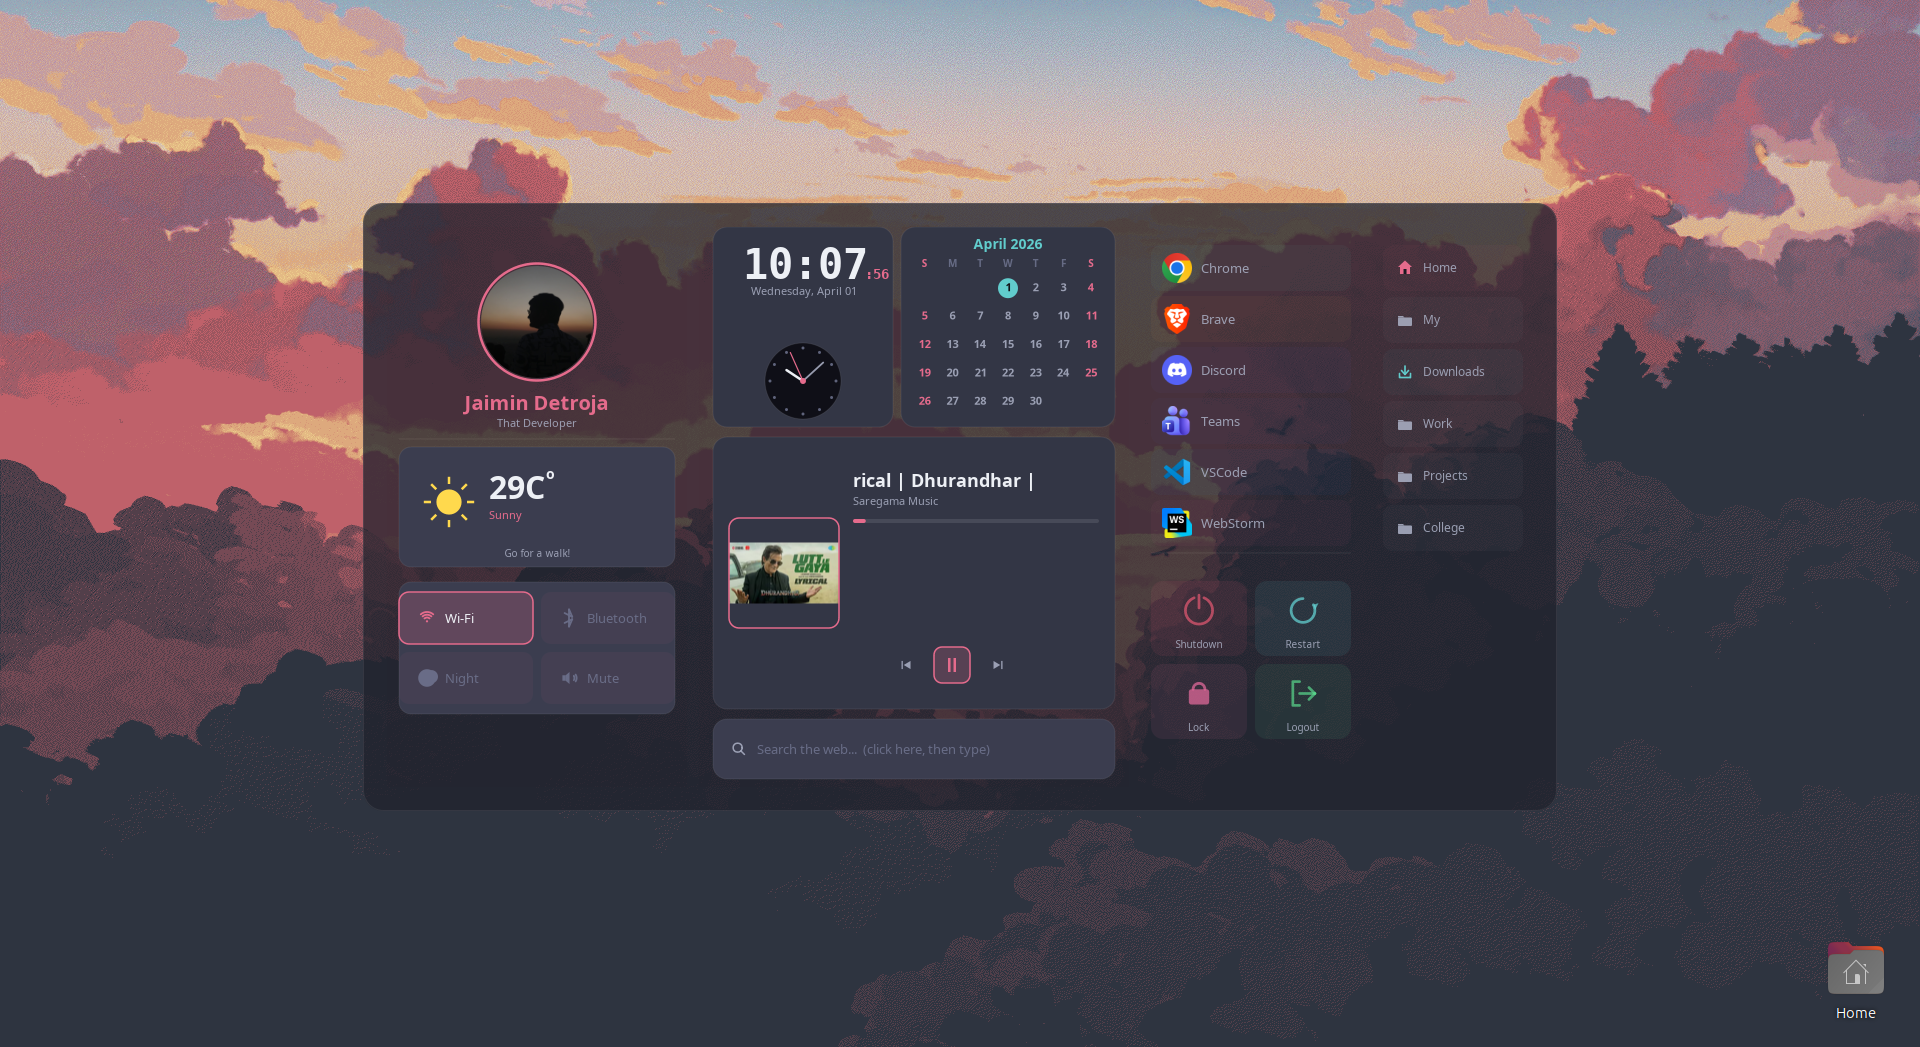
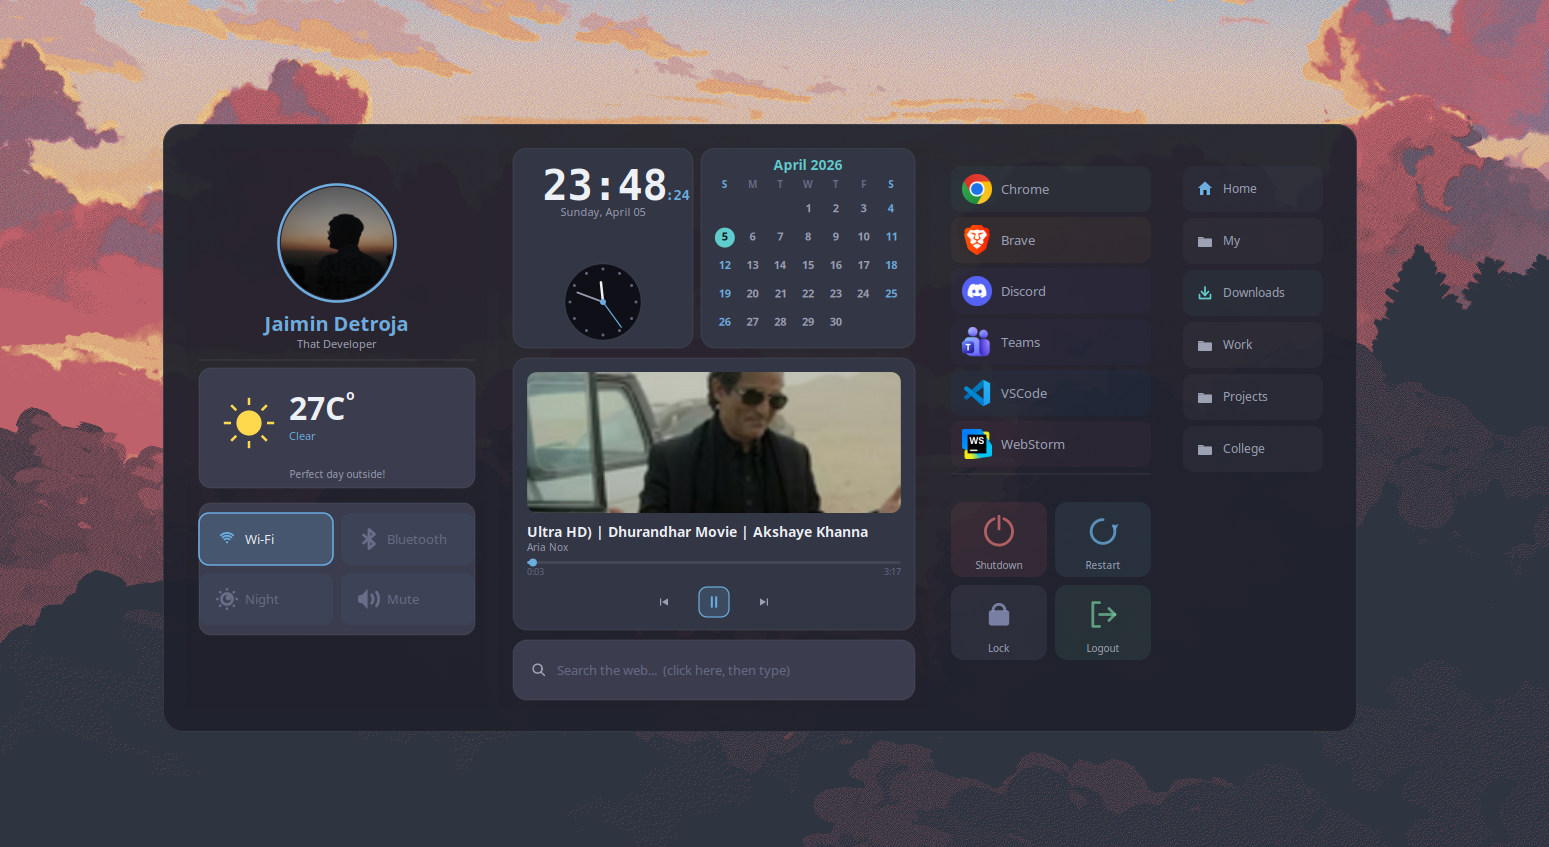
Enhance CenterPanel with playback position and length tracking; update progress calculation and UI elements

diff --git a/widgets/center_panel.py b/widgets/center_panel.py
@@ -38,6 +38,8 @@ class CenterPanel(Gtk.DrawingArea):
         self._art_url = ""
         self._art_surf = None   # cached thumbnail surface
         self._progress = 0.0
+        self._position = 0      # microseconds
+        self._length = 0        # microseconds
         self._marquee = 0
         self._search = ""
         self._sfocus = False
@@ -50,7 +52,7 @@ class CenterPanel(Gtk.DrawingArea):
         self.connect("key-press-event", self._on_key)
         GLib.timeout_add(1000, self._clock_tick)
         GLib.timeout_add(50, self._anim_tick)
-        GLib.timeout_add(2000, self._poll_player)
+        GLib.timeout_add(1000, self._poll_player)
         GLib.timeout_add(500, self._blink_cursor)
         self._poll_player()
 
@@ -62,7 +64,6 @@ class CenterPanel(Gtk.DrawingArea):
     def _anim_tick(self):
         if self._playing:
             self._marquee += 1
-            self._progress = (self._progress + 0.001) % 1.0
         self.queue_draw()
         return True
 
@@ -88,6 +89,27 @@ class CenterPanel(Gtk.DrawingArea):
                 art = subprocess.check_output(
                     ["playerctl", "metadata", "mpris:artUrl"],
                     stderr=subprocess.DEVNULL).decode().strip()
+                # Get position (playerctl returns seconds as float)
+                try:
+                    pos_f = float(subprocess.check_output(
+                        ["playerctl", "position"],
+                        stderr=subprocess.DEVNULL).decode().strip())
+                    self._position = int(pos_f * 1_000_000)
+                except Exception:
+                    self._position = 0
+                # Get length (microseconds) from metadata
+                try:
+                    length = int(subprocess.check_output(
+                        ["playerctl", "metadata", "mpris:length"],
+                        stderr=subprocess.DEVNULL).decode().strip())
+                    self._length = length
+                except Exception:
+                    self._length = 0
+                # Compute progress
+                if self._length > 0:
+                    self._progress = min(1.0, self._position / self._length)
+                else:
+                    self._progress = 0.0
                 self._title = t or "YouTube"
                 self._artist = a or "Open in Browser - Music"
                 if art != self._art_url:
@@ -97,6 +119,9 @@ class CenterPanel(Gtk.DrawingArea):
                 self._playing = False
                 self._title = "YouTube"
                 self._artist = "Open in Browser - Music"
+                self._position = 0
+                self._length = 0
+                self._progress = 0.0
             GLib.idle_add(self.queue_draw)
         threading.Thread(target=_do, daemon=True).start()
         return True
@@ -106,7 +131,7 @@ class CenterPanel(Gtk.DrawingArea):
         def _do():
             surf = None
             try:
-                size = 110
+                size = 250
                 if url.startswith("file://"):
                     path = url[7:]
                     pb = GdkPixbuf.Pixbuf.new_from_file_at_scale(path, size, size, True)
@@ -132,21 +157,17 @@ class CenterPanel(Gtk.DrawingArea):
         # Music controls
         mus_y = 210
         mus_h = h - 210 - 78
-        ctl_y = mus_y + mus_h - 44
-        tx = pad + 110 + 14  # thumb_size + gap
-        tw = cw - (tx - pad) - pad
-        ctl_cx = tx + tw / 2
+        ctl_y = mus_y + mus_h - pad - 14
+        ctl_cx = w / 2
 
-        if abs(y - ctl_y) < 26:
-            if abs(x - (ctl_cx - 70)) < 22:
+        if abs(y - ctl_y) < 22:
+            if abs(x - (ctl_cx - 50)) < 20:
                 subprocess.Popen(["playerctl", "previous"])
-            elif abs(x - (ctl_cx - 24)) < 22:
+            elif abs(x - ctl_cx) < 20:
                 subprocess.Popen(["playerctl", "play-pause"])
                 self._playing = not self._playing
-            elif abs(x - (ctl_cx + 22)) < 22:
+            elif abs(x - (ctl_cx + 50)) < 20:
                 subprocess.Popen(["playerctl", "next"])
-            elif abs(x - (ctl_cx + 68)) < 22:
-                subprocess.Popen(["xdg-open", "https://youtube.com"])
             self.queue_draw()
             return
 
@@ -318,107 +339,111 @@ class CenterPanel(Gtk.DrawingArea):
                 col = 0
                 row += 1
 
-    def _draw_music(self, cr, ox, oy, w, h):
-        pad = 16
+    @staticmethod
+    def _fmt_time(us):
+        """Format microseconds as m:ss."""
+        secs = max(0, int(us / 1_000_000))
+        return f"{secs // 60}:{secs % 60:02d}"
 
-        # Thumbnail
-        thumb_size = 110
+    def _draw_music(self, cr, ox, oy, w, h):
+        pad = 14
+        inner_w = w - pad * 2
+
+        # ── Top: Thumbnail (full width, ~55% height) ──
+        thumb_h = int(h * 0.52)
         thumb_x = ox + pad
-        thumb_y = oy + (h - thumb_size) // 2
+        thumb_y = oy + pad
+        thumb_w = inner_w
 
         if self._art_surf:
-            # Rounded clip for thumbnail
             cr.save()
-            _rr_clip(cr, thumb_x, thumb_y, thumb_size, thumb_size, 10)
+            _rr_clip(cr, thumb_x, thumb_y, thumb_w, thumb_h, 10)
             cr.clip()
             sw = self._art_surf.get_width()
             sh = self._art_surf.get_height()
-            scale = thumb_size / max(sw, sh)
-            cr.translate(thumb_x + (thumb_size - sw * scale) / 2,
-                         thumb_y + (thumb_size - sh * scale) / 2)
+            scale = max(thumb_w / sw, thumb_h / sh)
+            cr.translate(thumb_x + (thumb_w - sw * scale) / 2,
+                         thumb_y + (thumb_h - sh * scale) / 2)
             cr.scale(scale, scale)
             cr.set_source_surface(self._art_surf, 0, 0)
             cr.paint()
             cr.restore()
-            # Pink border
-            _rr_clip(cr, thumb_x, thumb_y, thumb_size, thumb_size, 10)
-            sc(cr, PINK)
-            cr.set_line_width(1.5)
-            cr.stroke()
         else:
-            # Placeholder: dark rounded rect with music note
-            rr(cr, thumb_x, thumb_y, thumb_size, thumb_size, 10)
-            cr.set_source_rgba(*PINK[:3], 0.08)
+            rr(cr, thumb_x, thumb_y, thumb_w, thumb_h, 10)
+            cr.set_source_rgba(*PINK[:3], 0.06)
             cr.fill()
-            rr(cr, thumb_x, thumb_y, thumb_size, thumb_size, 10)
-            sc(cr, PINK)
-            cr.set_line_width(1.5)
-            cr.stroke()
-            # Music note (two circles + stem)
-            nx = thumb_x + thumb_size / 2
-            ny = thumb_y + thumb_size / 2
-            sc(cr, PINK)
-            cr.set_line_width(2)
-            cr.arc(nx - 10, ny + 12, 8, 0, 2 * math.pi)
-            cr.fill()
-            cr.arc(nx + 10, ny + 8, 8, 0, 2 * math.pi)
-            cr.fill()
-            cr.set_source_rgba(*PINK[:3], 0.9)
-            cr.move_to(nx - 2, ny + 12)
-            cr.line_to(nx - 2, ny - 12)
-            cr.line_to(nx + 18, ny - 16)
-            cr.line_to(nx + 18, ny + 8)
+            nx, ny = thumb_x + thumb_w / 2, thumb_y + thumb_h / 2
+            sc(cr, DIM); cr.set_line_width(2)
+            cr.arc(nx - 8, ny + 10, 7, 0, 2 * math.pi); cr.fill()
+            cr.arc(nx + 8, ny + 6, 7, 0, 2 * math.pi); cr.fill()
+            cr.set_source_rgba(*DIM[:3], 0.8)
+            cr.move_to(nx - 1, ny + 10); cr.line_to(nx - 1, ny - 10)
+            cr.line_to(nx + 15, ny - 14); cr.line_to(nx + 15, ny + 6)
             cr.stroke()
 
-        # Text (right of thumbnail)
-        tx = thumb_x + thumb_size + 14
-        tw = w - (tx - ox) - pad
+        # ── Bottom: Info + Progress + Controls ──
+        bx = ox + pad
+        by = thumb_y + thumb_h + 10
+        bw = inner_w
 
+        # Title
         title = self._title
-        if len(title) > 20:
+        max_chars = max(16, int(bw / 8))
+        if len(title) > max_chars:
             off = (self._marquee // 3) % (len(title) + 5)
             padded = title + "     "
-            title = (padded * 2)[off:off + 20]
+            title = (padded * 2)[off:off + max_chars]
 
         cr.select_font_face("Sans", cairo.FONT_SLANT_NORMAL, cairo.FONT_WEIGHT_BOLD)
-        cr.set_font_size(18)
+        cr.set_font_size(14)
         sc(cr, WHITE)
-        cr.move_to(tx, oy + 50)
-        cr.show_text(title[:20])
+        cr.move_to(bx, by + 14)
+        cr.show_text(title[:max_chars])
 
+        # Artist
         cr.select_font_face("Sans", cairo.FONT_SLANT_NORMAL, cairo.FONT_WEIGHT_NORMAL)
-        cr.set_font_size(11)
+        cr.set_font_size(10)
         sc(cr, GREY)
-        cr.move_to(tx, oy + 68)
-        cr.show_text(self._artist[:26])
+        cr.move_to(bx, by + 28)
+        cr.show_text(self._artist[:max_chars])
 
         # Progress bar
-        pb_y = oy + 82
-        pb_h = 4
-        rr(cr, tx, pb_y, tw, pb_h, 2)
-        cr.set_source_rgba(1, 1, 1, 0.1)
+        pb_y = by + 38
+        pb_h = 3
+        rr(cr, bx, pb_y, bw, pb_h, 2)
+        cr.set_source_rgba(1, 1, 1, 0.08)
         cr.fill()
         if self._progress > 0:
-            rr(cr, tx, pb_y, max(6, tw * self._progress), pb_h, 2)
+            fill_w = max(4, bw * self._progress)
+            rr(cr, bx, pb_y, fill_w, pb_h, 2)
             sc(cr, PINK)
             cr.fill()
+            cr.arc(bx + fill_w, pb_y + pb_h / 2, 4, 0, 2 * math.pi)
+            sc(cr, PINK); cr.fill()
 
-        # Controls — Cairo vector icons
-        ctl_y = oy + h - 44
-        ctl_cx = tx + tw / 2
+        # Time labels
+        cr.set_font_size(9)
+        sc(cr, DIM)
+        cr.move_to(bx, pb_y + 14)
+        cr.show_text(self._fmt_time(self._position))
+        len_str = self._fmt_time(self._length)
+        le = cr.text_extents(len_str)
+        cr.move_to(bx + bw - le.width, pb_y + 14)
+        cr.show_text(len_str)
 
-        draw_icon(cr, "prev", ctl_cx - 70, ctl_y, 18, GREY)
-        # Play/Pause button with highlight
-        rr(cr, ctl_cx - 24 - 18, ctl_y - 18, 36, 36, 8)
-        cr.set_source_rgba(*PINK[:3], 0.2)
-        cr.fill()
-        rr(cr, ctl_cx - 24 - 18, ctl_y - 18, 36, 36, 8)
-        sc(cr, PINK)
-        cr.set_line_width(1.5)
-        cr.stroke()
+        # Controls — centered
+        ctl_y = oy + h - pad - 14
+        ctl_cx = ox + w / 2
+
+        draw_icon(cr, "prev", ctl_cx - 50, ctl_y, 16, GREY)
+        btn_sz = 30
+        rr(cr, ctl_cx - btn_sz / 2, ctl_y - btn_sz / 2, btn_sz, btn_sz, 8)
+        cr.set_source_rgba(*PINK[:3], 0.18); cr.fill()
+        rr(cr, ctl_cx - btn_sz / 2, ctl_y - btn_sz / 2, btn_sz, btn_sz, 8)
+        sc(cr, PINK); cr.set_line_width(1.2); cr.stroke()
         icon_name = "pause" if self._playing else "play"
-        draw_icon(cr, icon_name, ctl_cx - 24, ctl_y, 20, PINK)
-        draw_icon(cr, "next", ctl_cx + 22, ctl_y, 18, GREY)
+        draw_icon(cr, icon_name, ctl_cx, ctl_y, 16, PINK)
+        draw_icon(cr, "next", ctl_cx + 50, ctl_y, 16, GREY)
 
     def _draw_search(self, cr, ox, oy, w, h):
         pad = 14
